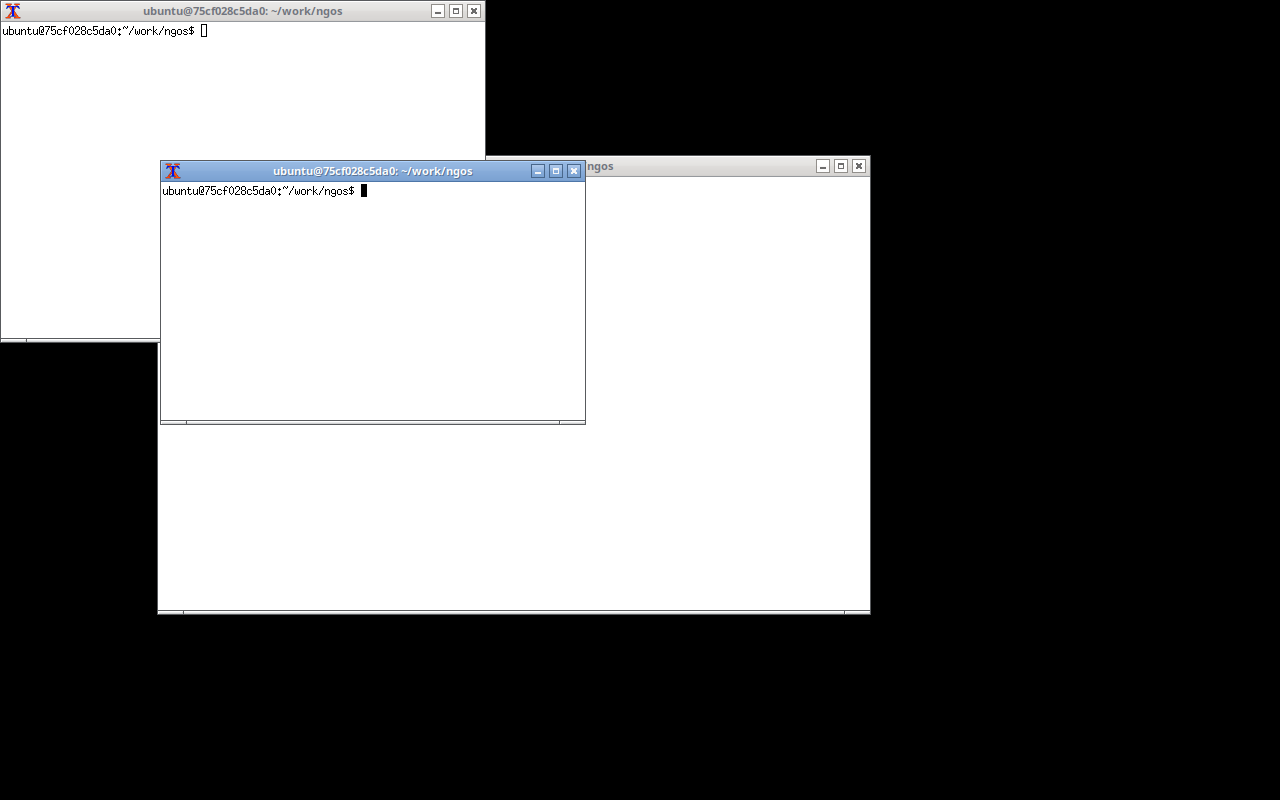
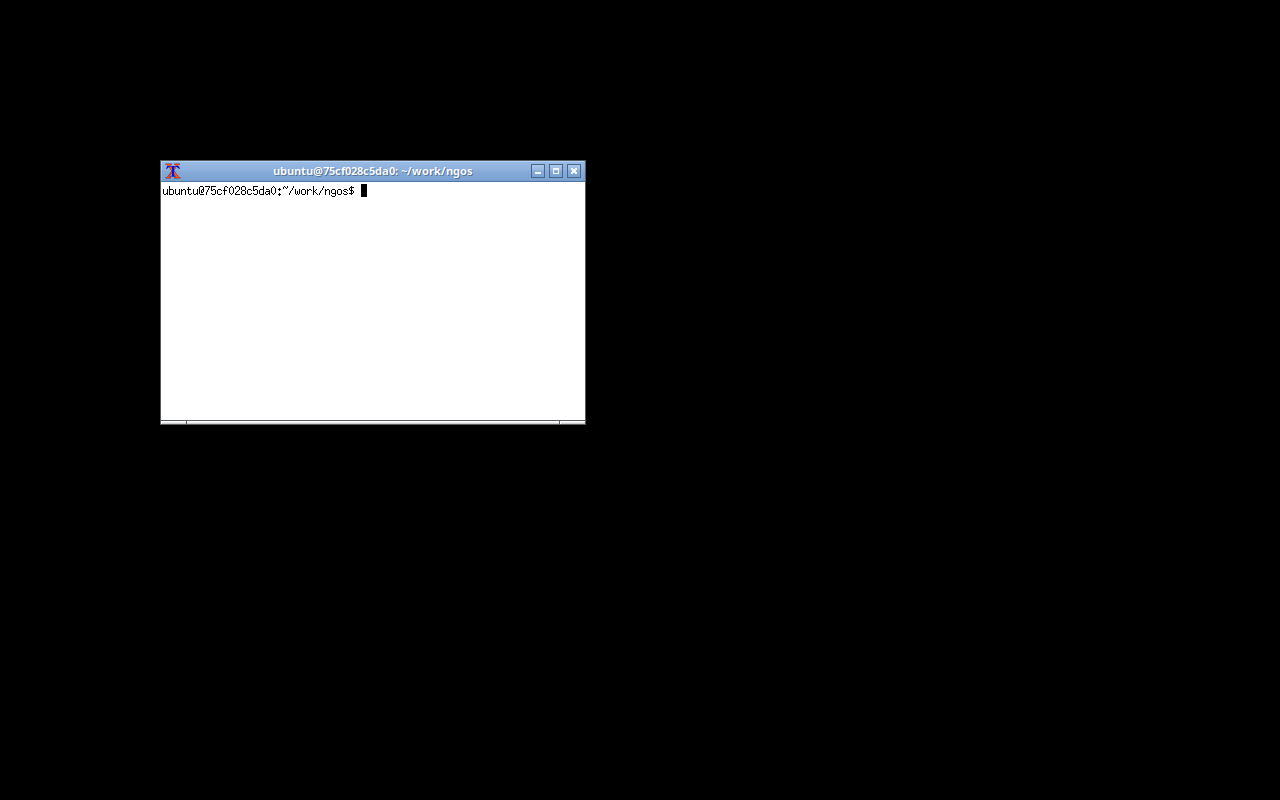
Prepare NGOS 0.1.0 stable release

diff --git a/docs/capture_gui.py b/docs/capture_gui.py
@@ -1,7 +1,12 @@
-import os, time
+import os
+import time
+from pathlib import Path
 from PIL import ImageGrab
-os.environ['DISPLAY'] = ':99'
-time.sleep(2)
+
+os.environ.setdefault("DISPLAY", ":99")
+time.sleep(1)
 image = ImageGrab.grab()
-image.save('/home/ubuntu/work/ngos/out/ngos-desktop.png')
+out = Path(__file__).resolve().parents[1] / "out" / "ngos-desktop.png"
+out.parent.mkdir(parents=True, exist_ok=True)
+image.save(out)
 print(image.size)

diff --git a/README.md b/README.md
@@ -1,6 +1,6 @@
 # NGOS
 
-**NGOS — Next Generation Operating System** is a tiny Void Linux derivative with a stable X11 desktop baseline. Its visual language combines a Windows-like task surface, macOS-inspired shell affordances, and a cyberpunk glass aesthetic: cyan/violet neon, translucent panels, soft blur, wobbly motion, and a magic-lamp minimize animation.
+**NGOS — Next Generation Operating System** is a tiny Void Linux derivative with a stable X11 desktop baseline. Its visual language combines a Windows-like task surface, macOS-inspired shell affordances, and a cyberpunk glass aesthetic: cyan/violet neon, translucent panels, soft blur, wobbly motion, and a magic-lamp minimize animation. Current stable version: **0.1.0**.
 
 This repository contains the source for the **NGOS session**, a minimal **NGDM** display-manager prototype, theme assets, and a reproducible Void `mklive` ISO builder. The first milestone targets a compressed image under 150 MiB on x86_64 Intel-compatible hardware.
 
@@ -20,7 +20,7 @@ The stable session loads the NGOS wallpaper from `/usr/share/backgrounds/ngos/wa
 
 ## Keyboard map
 
-`Super` opens the launcher. `Super+Enter` opens a terminal. `Super+1..4` switches workspaces. `Super+Shift+Q` closes the focused window. `Super+M` triggers the magic-lamp minimize effect. The default shell configuration is Zsh with a Kali-inspired prompt, completion, history, and safe convenience aliases.
+`Super+Space` opens the launcher. `Super+Enter` opens a terminal. `Super+1..4` switches workspaces. `Super+Q` closes the focused window. `Super+M` minimizes the focused window. `Super+D` toggles dark mode. The default shell configuration is Zsh with a Kali-inspired prompt, completion, history, and safe convenience aliases.
 
 ## Build
 
@@ -31,6 +31,10 @@ sudo ./iso/build-iso.sh
 ```
 
 The builder downloads only the requested packages, installs the custom components, writes the default session, and rejects an image larger than 150 MiB. The additional 50 MiB budget is reserved for the richer shell, icon/cursor pack, and desktop polish. Proprietary GPU stacks and broad firmware bundles are excluded.
+
+## Validation
+
+On a development host with Xvfb, Openbox, xterm, and xdotool installed, run `make clean all`, `./docs/test-gui.sh`, `./docs/test-launch.sh`, and `./docs/test-stable.sh`. Also run `DESTDIR=/tmp/ngos-root ./theme/install-assets.sh` and `sh -n session/ngos-session iso/build-iso.sh theme/install-assets.sh theme/install-upstream.sh`. These checks cover compilation, panel rendering, terminal launch, Openbox title-bar startup, runtime asset installation, and shell syntax.
 
 ## Status
 

diff --git a/RELEASE_NOTES.md b/RELEASE_NOTES.md
@@ -1,0 +1,17 @@
+# NGOS 0.1.0 — Stable Baseline
+
+NGOS 0.1.0 is the first stable desktop baseline for the Next Generation Operating System project. It combines Void Linux, a branded NGOS panel and dock, Openbox window management, an NGOS wallpaper, WhiteSur cursor/icon integration, and a Kali-inspired Zsh configuration.
+
+## Included
+
+The release provides real application title bars and controls through Openbox, including close, minimize, maximize, move, resize, focus, and stacking behavior. The NGOS session loads the wallpaper from `/usr/share/backgrounds/ngos/wallpaper.svg`, selects the configured cursor theme, and exposes the `Super+D` dark-mode toggle.
+
+The image package list intentionally excludes a web browser. The default application set remains minimal: terminal, files, settings entry point, and the core desktop session.
+
+## Verification
+
+The release was compiled with the local X11 toolchain and validated with the GUI, terminal-launch, stable Openbox, shell-syntax, and image-root asset-installation checks. The stable screenshot is stored at `docs/screenshots/ngos-stable-terminal.png`.
+
+## Scope
+
+This is a stable baseline, not a claim of production-grade hardware coverage. PAM policy, power management, accessibility, signed artifacts, a graphical installer, and broader hardware validation remain follow-up work.
